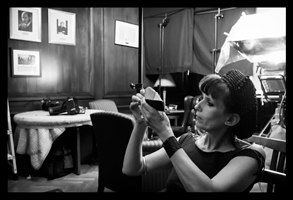
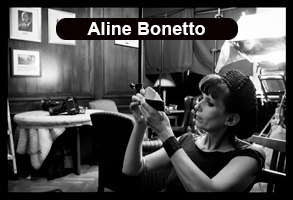
.gif en respuesta a formulario + modificacion en img's de la pestaña staff

Changed region(s): [[0.1843, 0.09, 0.8294, 0.21]]

diff --git a/staff.html b/staff.html
@@ -21,41 +21,35 @@
 			<h1> S T A F F </h1>
 			<div class="container info">
             <div class="box text-center">
-                <h2>Bruno Delbbonel</h2>
                 <img src="img/ddelbonnel.jpg">
                 <h3>DIRECTOR DE FOTOGRAFÍA</h3>
                 <p> Para rodar la película, Jeunet contó con el diretor de fotografía Bruno Delbonnel, con el que había hecho sus cortometrajes así como Amélie. </p>
             </div>
     
             <div class="box">
-               <h2>Jean Pierre Jeunet</h2>
                <img src="img/jj.jpg">
                 <h3>DIRECTOR</h3>
                 <p> El director adaptó la novela de Sébastien Japrisot junto con el guionista de Amélie, Guillaume Laurant. Deicidieron que Mathilde no estaría en una silla de ruedas sino que, como víctima de la poliomielitis, cojearía. </p>
             </div>
     
             <div class="box">
-                <h2>Aline Bonetto</h2>
                 <img src="img/aaline.jpg">
                 <h3>DISEÑADORA DE PRODUCCIÓN</h3>
                 <p> "Cada centímetro cuadrado de esas trincheras fue esculpido, pintado, trabajado con precisión y pulido. A continuación había que recrear la tierra de nadie entre las líneas francesa y alemana." </p>
             </div>
              <div class="box">
-                <h2>Guillaume Laurant</h2>
                 <img src="img/gguionista.jpg">
                 <h3>GUIONISTA</h3>
                 <p> “Conservamos algunas cartas pero las poetizamos visualmente. Y transformamos muchas de ellas en encuentros reales entre Mathilde y la otra persona. En las películas, necesitas un poco más de eficacia y espectáculo sin pasarte."" </p>
             </div>
     
             <div class="box">
-               <h2>Hervé Schneid</h2>
                <img src="img/mmont.jpg">
                 <h3>MONTAJE</h3>
                 <p>  “Teníamos dos referencias importantes para la película. Se trataba de los últimos lienzos del pintor brasileño Juarez Machado, al que Jean-Pierre adora, y la obra de Gordon Willis sobre el aspecto visual de El Padrino. </p>
             </div>
     
             <div class="box">
-                <h2>Madeline Fontaine</h2>
                 <img src="img/vvest.jpg">
                 <h3>VESTUARIO</h3>
                 <p> "El reto esta vez procedía del hecho de que esta producción era mucho más ambiciosa (con más extras) y tenía que ser auténtica – especialmente porque se trataba de una época fundamental para la moda.  </p>

diff --git a/personajes.html b/personajes.html
@@ -55,7 +55,7 @@
 	 </div>
 	 <div class="actores">       
 		<img src="img/08.jpg" alt="Personajes"/>
-		<p> Su úlrima aparición en el mundo audiovisual fue un una serie llamada Revenants del año 2012. </p>
+		<p> Su última aparición en el mundo audiovisual fue un una serie llamada Revenants del año 2012. </p>
 	 </div>
 	  <div class="actores">       
 		<img src="img/09.jpg" alt="Personajes"/>

diff --git a/enviar.html b/enviar.html
@@ -24,3 +24,7 @@
 <section>
 	<h1>¡Gracias por completar nuestro formulario! </h1>
 	<h1>En breve te enviaremos un mail de confirmación.</h1>
+	<div class="resp">
+	<img src="img/numbers.gif" alt="numbers">
+</div>
+</section>

diff --git a/estilos/estilos.css b/estilos/estilos.css
@@ -162,6 +162,11 @@ section h1{
 	margin: 10%;
 
 }
+
+.resp {
+	text-align: center;
+	margin: 50px;
+}
 footer {
 	padding: 12px;
 	display: flex;
